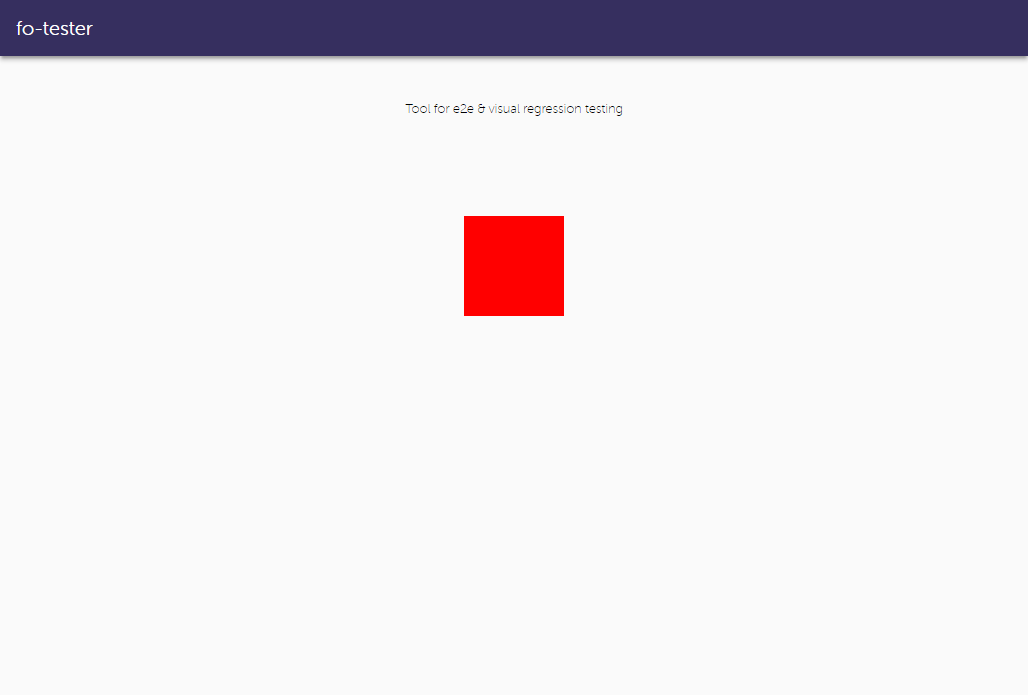
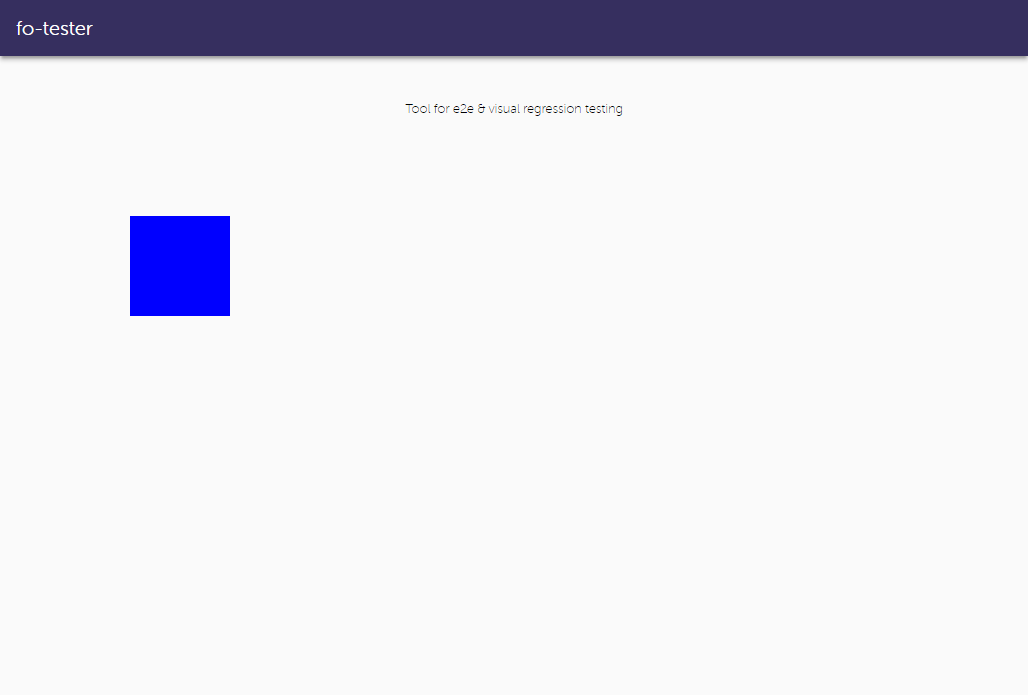
test

Changed region(s): [[0.4358, 0.3022, 0.5603, 0.4532], [0.1245, 0.3022, 0.249, 0.4532]]

diff --git a/src/app/partials/_content.scss b/src/app/partials/_content.scss
@@ -19,11 +19,11 @@
 
     &__tests {
         &__sample1 {
-            background-color: red;
+            background-color: blue;
             width: 100px;
             height: 100px;
             display: block;
-            margin: 100px auto;
+            margin: 100px 100px;
         }
     }
 }

diff --git a/src/app/partials/_content.html b/src/app/partials/_content.html
@@ -1,5 +1,5 @@
 <div class="content">
-    Tool for e2e & visual regression testing
+    Tool for e2e & visual regression tester
     <div class="content__tests">
         <div class="content__tests__sample1">
         </div>
